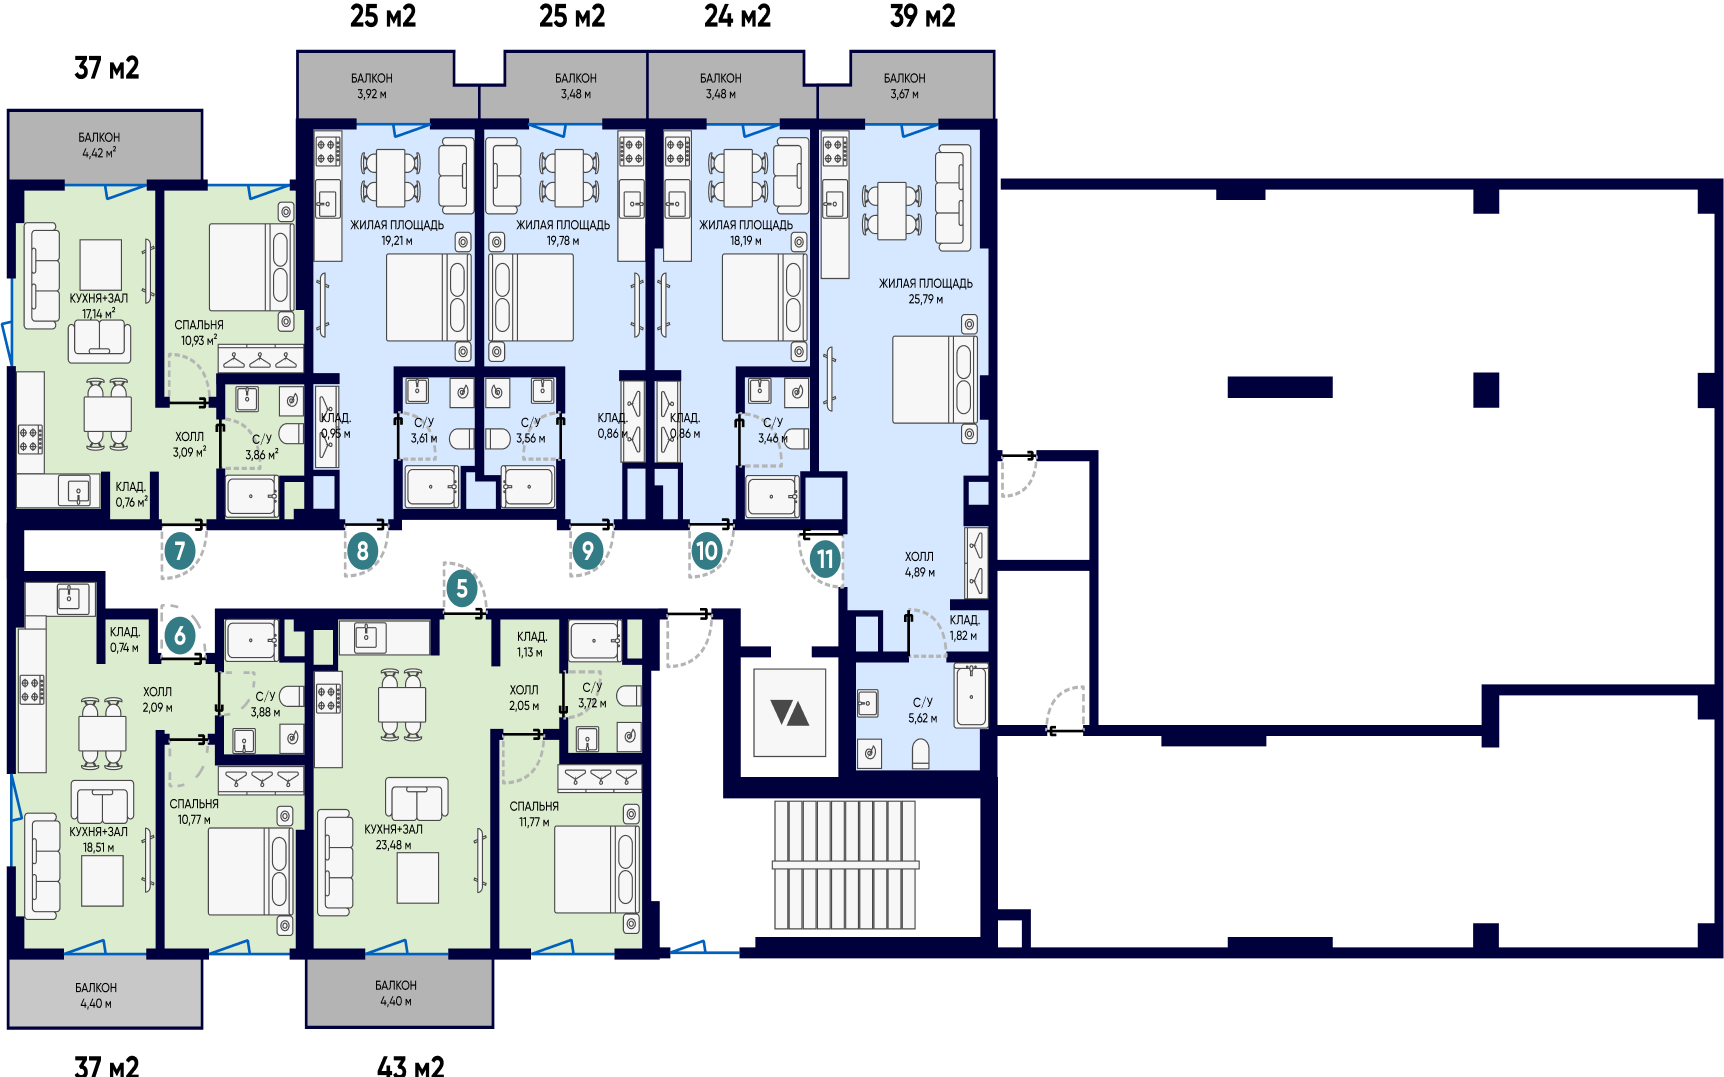
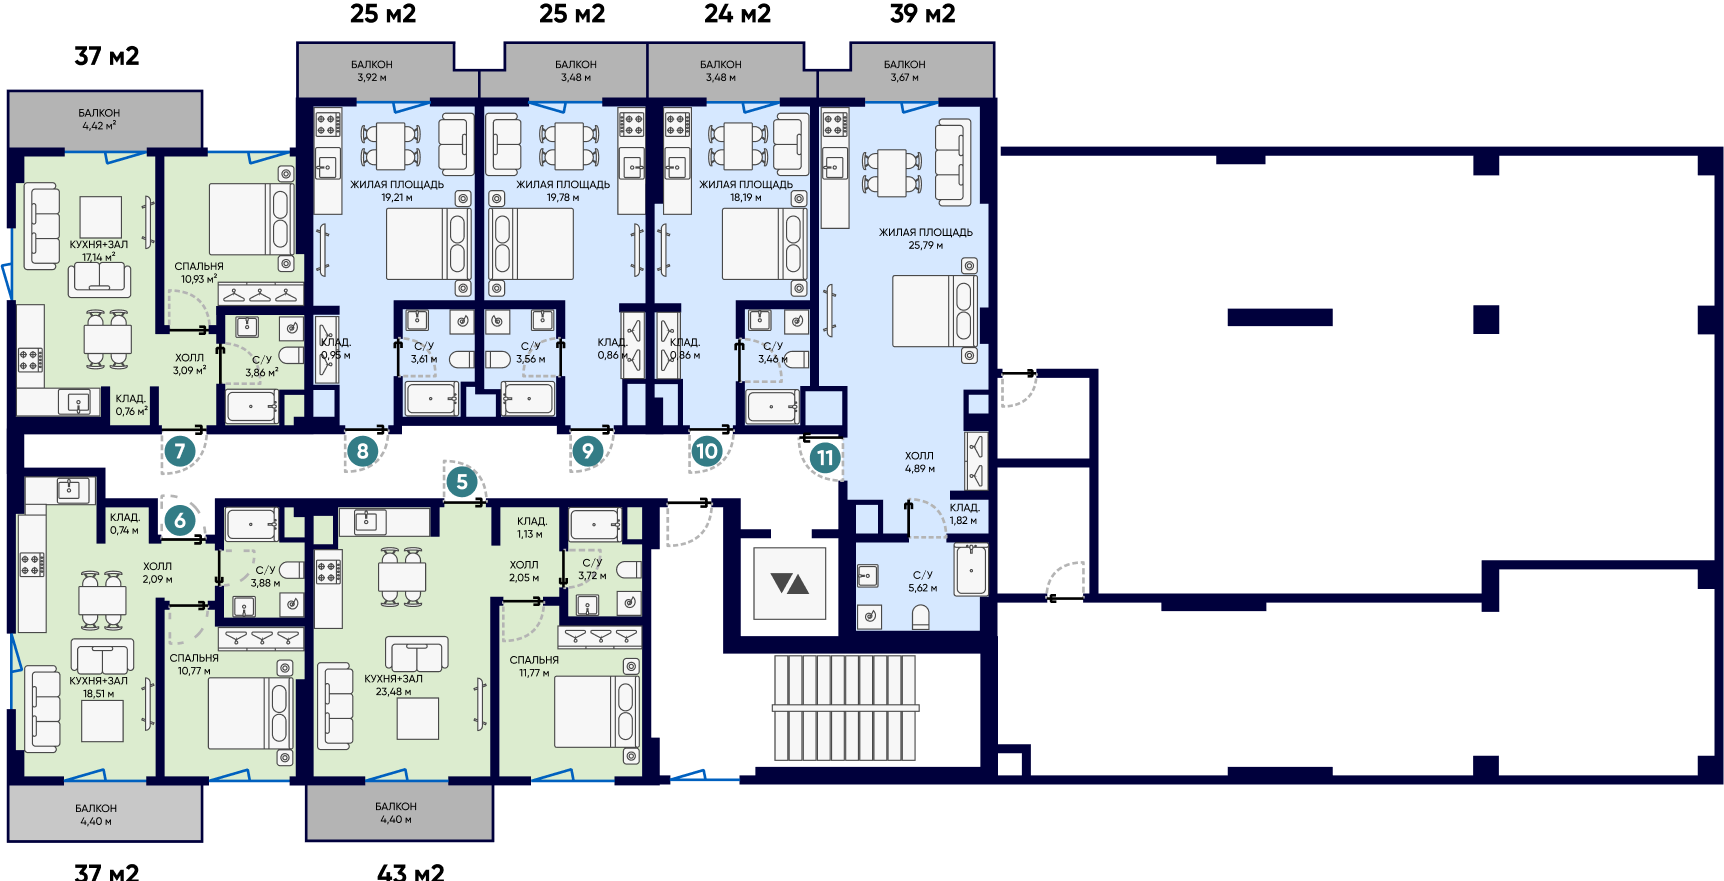
apartments sketches updated

diff --git a/assets/data/apartments.js b/assets/data/apartments.js
@@ -2055,61 +2055,61 @@ const apartmentsPaths1 = [
 ];
 const apartmentsPaths2 = [
 	{
-		path: 'M 815.281 117.189 L 815.281 81.427 L 848.875 81.427 L 848.875 47.942 L 994.815 47.942 L 994.815 121.89 L 994.815 774.394 L 842.447 774.394 L 840.78 584.192 L 840.78 521.05 L 800.276 521.05 L 800.276 468.229 L 820.12 468.229 L 820.12 122.908 L 815.281 117.189 Z',
+		path: 'M 815.281 201.927 L 815.281 173.183 L 848.875 173.183 L 848.875 146.271 L 994.815 146.271 L 994.815 205.706 L 994.815 730.146 L 842.447 730.146 L 840.78 577.274 L 840.78 526.524 L 800.276 526.524 L 800.276 484.071 L 820.12 484.071 L 820.12 206.524 L 815.281 201.927 Z',
 		apartmentId: '11'
 	},
 	{
-		path: 'M 641.692 523.89 L 641.692 118.982 L 635.338 112.652 L 635.338 48.556 L 800.999 48.556 L 800.999 78.773 L 828.151 78.773 L 813.24 117.944 L 813.24 477.646 L 802.652 476.708 L 802.652 519.537 L 741.741 519.537 L 741.741 523.89 L 646.775 523.89 L 641.692 523.89 Z',
+		path: 'M 653.426 532.074 L 653.426 199.678 L 647.472 194.482 L 647.472 141.865 L 802.707 141.865 L 802.707 166.671 L 828.151 166.671 L 814.178 198.826 L 814.178 494.113 L 804.257 493.342 L 804.257 528.501 L 747.178 528.501 L 747.178 532.074 L 658.189 532.074 L 653.426 532.074 Z',
 		apartmentId: '10'
 	},
 	{
-		path: 'M 657.303 522.87 L 657.303 126.599 L 654.93 121.419 L 654.93 53.848 L 503.063 53.848 L 503.063 88.263 L 481.197 88.263 L 481.197 125.678 L 475.9 477.713 L 466.366 477.713 L 466.366 515.417 L 562.343 515.417 L 562.343 523.889 L 657.303 523.889 L 657.303 522.87 Z',
+		path: 'M 657.303 524.52 L 657.303 199.583 L 654.93 195.337 L 654.93 139.929 L 503.063 139.929 L 503.063 168.149 L 481.197 168.149 L 481.197 198.829 L 475.9 487.492 L 466.366 487.492 L 466.366 518.408 L 562.343 518.408 L 562.343 525.355 L 657.303 525.355 L 657.303 524.52 Z',
 		apartmentId: '9'
 	},
 	{
-		path: 'M 303.922 527.173 L 303.922 128.605 L 292.48 123.395 L 292.48 55.433 L 458.205 55.433 L 458.205 90.048 L 485.367 90.048 L 485.367 127.679 L 485.367 481.752 L 470.451 481.752 L 470.451 519.675 L 398.924 519.675 L 398.924 528.195 L 303.922 528.195 L 303.922 527.173 Z',
+		path: 'M 303.725 524.768 L 303.725 199.34 L 292.48 195.085 L 292.48 139.594 L 455.35 139.594 L 455.35 167.858 L 482.044 167.858 L 482.044 198.582 L 482.044 487.682 L 467.385 487.682 L 467.385 518.646 L 397.09 518.646 L 397.09 525.602 L 303.725 525.602 L 303.725 524.768 Z',
 		apartmentId: '8'
 	},
 	{
-		path: 'M -6.11 109.99 L -6.11 111.06 L -6.11 275.666 L -1.833 275.666 L -1.833 391.005 L -1.833 523.156 L 153.344 523.156 L 225.576 523.156 L 311.527 523.156 L 311.527 184.811 L 199.242 184.811 L 199.242 109.99 L -6.11 109.99 Z',
+		path: 'M 7.442 187.014 L 7.442 187.884 L 7.442 321.804 L 11.537 321.804 L 11.537 415.641 L 11.537 523.156 L 160.093 523.156 L 229.243 523.156 L 311.527 523.156 L 311.527 247.887 L 204.033 247.887 L 204.033 187.014 L 7.442 187.014 Z',
 		apartmentId: '7'
 	},
 	{
-		path: 'M 10.515 576.689 L 8.264 953.556 L 4.093 959.069 L 3.683 1027.53 L 200.434 1027.53 L 200.876 953.556 L 303.717 953.556 L 311.081 834.836 L 312.404 613.211 L 222.713 613.211 L 222.444 658.452 L 153.167 658.452 L 153.432 614.089 C 153.435 613.503 100.022 614.089 100.022 614.089 L 100.246 576.689 L 10.515 576.689 Z',
+		path: 'M 10.515 563.578 L 8.264 878.8 L 4.093 883.411 L 3.683 940.673 L 200.434 940.673 L 200.876 878.8 L 303.717 878.8 L 311.081 779.499 L 312.404 594.127 L 222.713 594.127 L 222.444 631.967 L 153.167 631.967 L 153.432 594.861 C 153.435 594.371 100.022 594.861 100.022 594.861 L 100.246 563.578 L 10.515 563.578 Z',
 		apartmentId: '6'
 	},
 	{
-		path: 'M 308.283 613.502 L 308.283 951.133 L 306.124 951.133 L 306.124 1024.3 L 490.901 1024.3 L 490.901 951.036 L 646.703 951.036 L 643.221 900.704 L 643.221 612.629 L 341.148 612.629 L 308.283 613.502 Z',
+		path: 'M 308.283 594.37 L 308.283 876.773 L 306.124 876.773 L 306.124 937.971 L 490.901 937.971 L 490.901 876.692 L 646.703 876.692 L 643.221 834.593 L 643.221 593.64 L 341.148 593.64 L 308.283 594.37 Z',
 		apartmentId: '5'
 	}
 ];
 const apartmentsPaths3 = [
 	{
-		path: 'M 816.179 118.412 L 816.179 82.446 L 849.372 82.446 L 849.372 48.771 L 993.587 48.771 L 993.587 123.091 L 993.587 779.326 L 843.023 779.326 L 841.375 588.064 L 841.375 524.515 L 801.313 524.515 L 801.313 471.395 L 820.962 471.395 L 820.962 124.163 L 816.179 118.412 Z',
+		path: 'M 815.281 201.927 L 815.281 173.183 L 848.875 173.183 L 848.875 146.271 L 994.815 146.271 L 994.815 205.706 L 994.815 730.146 L 842.447 730.146 L 840.78 577.274 L 840.78 526.524 L 800.276 526.524 L 800.276 484.071 L 820.12 484.071 L 820.12 206.524 L 815.281 201.927 Z',
 		apartmentId: '18'
 	},
 	{
-		path: 'M 652.19 524.077 L 652.19 125.089 L 646.162 118.851 L 646.162 55.691 L 803.32 55.691 L 803.32 85.517 L 829.038 85.517 L 814.934 124.113 L 814.934 478.558 L 804.889 477.582 L 804.889 519.836 L 747.064 519.836 L 747.064 524.077 L 657.013 524.077 L 652.19 524.077 Z',
+		path: 'M 653.426 532.074 L 653.426 199.678 L 647.472 194.482 L 647.472 141.865 L 802.707 141.865 L 802.707 166.671 L 828.151 166.671 L 814.178 198.826 L 814.178 494.113 L 804.257 493.342 L 804.257 528.501 L 747.178 528.501 L 747.178 532.074 L 658.189 532.074 L 653.426 532.074 Z',
 		apartmentId: '17'
 	},
 	{
-		path: 'M 646.404 523.052 L 646.404 124.113 L 644.155 118.851 L 644.155 50.818 L 500.095 50.818 L 500.095 85.517 L 479.4 85.517 L 479.4 123.139 L 474.377 477.582 L 465.336 477.582 L 465.336 515.547 L 556.353 515.547 L 556.353 524.077 L 646.404 524.077 L 646.404 523.052 Z',
+		path: 'M 657.303 524.52 L 657.303 199.583 L 654.93 195.337 L 654.93 139.929 L 503.063 139.929 L 503.063 168.149 L 481.197 168.149 L 481.197 198.829 L 475.9 487.492 L 466.366 487.492 L 466.366 518.408 L 562.343 518.408 L 562.343 525.355 L 657.303 525.355 L 657.303 524.52 Z',
 		apartmentId: '16'
 	},
 	{
-		path: 'M 307.415 520.176 L 307.415 121.239 L 296.565 115.975 L 296.565 47.942 L 453.723 47.942 L 453.723 82.641 L 479.481 82.641 L 479.481 120.264 L 479.481 474.709 L 465.336 474.709 L 465.336 512.672 L 397.507 512.672 L 397.507 521.201 L 307.415 521.201 L 307.415 520.176 Z',
+		path: 'M 303.725 524.768 L 303.725 199.34 L 292.48 195.085 L 292.48 139.594 L 455.35 139.594 L 455.35 167.858 L 482.044 167.858 L 482.044 198.582 L 482.044 487.682 L 467.385 487.682 L 467.385 518.646 L 397.09 518.646 L 397.09 525.602 L 303.725 525.602 L 303.725 524.768 Z',
 		apartmentId: '15'
 	},
 	{
-		path: 'M -0.799 104.425 L -0.799 105.497 L -0.799 270.609 L 3.245 270.609 L 3.245 386.352 L 3.245 518.861 L 150.537 518.861 L 219.091 518.861 L 300.663 518.861 L 300.663 179.476 L 194.056 179.476 L 194.056 104.425 L -0.799 104.425 Z',
+		path: 'M 7.442 187.014 L 7.442 187.884 L 7.442 321.804 L 11.537 321.804 L 11.537 415.641 L 11.537 523.156 L 160.093 523.156 L 229.243 523.156 L 311.527 523.156 L 311.527 247.887 L 204.033 247.887 L 204.033 187.014 L 7.442 187.014 Z',
 		apartmentId: '14'
 	},
 	{
-		path: 'M 11.334 572.274 L 11.334 949.439 L 7.23 954.96 L 7.23 1023.45 L 202.054 1023.45 L 202.054 949.439 L 303.879 949.439 L 310.429 830.624 L 310.429 608.859 L 221.663 608.859 L 221.663 654.128 L 153.07 654.128 L 153.07 609.717 C 153.07 609.152 100.188 609.717 100.188 609.717 L 100.188 572.274 L 11.334 572.274 Z',
+		path: 'M 10.515 563.578 L 8.264 878.8 L 4.093 883.411 L 3.683 940.673 L 200.434 940.673 L 200.876 878.8 L 303.717 878.8 L 311.081 779.499 L 312.404 594.127 L 222.713 594.127 L 222.444 631.967 L 153.167 631.967 L 153.432 594.861 C 153.435 594.371 100.022 594.861 100.022 594.861 L 100.246 563.578 L 10.515 563.578 Z',
 		apartmentId: '13'
 	},
 	{
-		path: 'M 318.225 603.527 L 304.682 951.436 L 300.583 956.963 L 300.583 1025.45 L 495.394 1025.45 L 495.394 951.436 L 644.155 951.436 L 644.155 603.527 L 441.226 603.527 L 318.225 603.527 Z',
+		path: 'M 308.283 594.37 L 308.283 876.773 L 306.124 876.773 L 306.124 937.971 L 490.901 937.971 L 490.901 876.692 L 646.703 876.692 L 643.221 834.593 L 643.221 593.64 L 341.148 593.64 L 308.283 594.37 Z',
 		apartmentId: '12'
 	}
 ];

diff --git a/pages/blocks/[block_id].vue b/pages/blocks/[block_id].vue
@@ -9,7 +9,6 @@
 import img1 from '~/assets/images/floors.avif';
 import img2 from '~/assets/images/floors-2.avif';
 import img3 from '~/assets/images/floors-3.avif';
-import img from '~/assets/images/hotel-close.avif';
 
 const { t } = useI18n();
 
@@ -93,14 +92,14 @@ const firstFloorPaths = [
 	// 	blockId: 'E3',
 	// 	floorId: '3',
 	// 	path: 'M 223 577.339 L 546 586.076 L 546 615.996 L 462 620.996 L 462 665.496 L 59 626.996 L 59 601.996 L 223 597.297 L 223 577.339 Z'
-	// }
+	// },
 
 	// // E4
 	// {
 	// 	blockId: 'E4',
 	// 	floorId: '1',
 	// 	path: 'M 164 610.5 L 164 638 L 164 640 L 52.5 629 L 52.5 624.5 L 59.5 624.5 L 59.5 602 L 221.502 596 L 223.002 569.5 L 192.5 568 L 192.5 560.5 L 204 560.5 L 204 518.5 L 195.5 518.5 L 195.5 469.5 L 190.5 469.5 L 190.5 463.5 L 200 463.5 L 200 412.5 L 221.502 412.5 L 221.502 401 L 263.002 398 L 263.002 458.5 C 256.335 458.667 242.602 459.1 241.002 459.5 C 239.402 459.9 240.335 537.333 241.002 576 L 261.502 576 L 261.502 606 L 164 610.5 Z'
-	// },
+	// }
 
 	// Commercial
 	// {
@@ -130,7 +129,7 @@ const secondFloorPaths = [
 		floorId: '1'
 	}
 
-	// E2
+	// // E2
 	// { path: 'M976.5 512.5V434.5L478.5 422.5V512.5H976.5Z', blockId: 'E2', floorId: '7' },
 	// { path: 'M976.5 569V515.5L478.5 513V569H976.5Z', blockId: 'E2', floorId: '6' },
 	// { path: 'M976.5 624V570.5H478.5V626.5L976.5 624Z', blockId: 'E2', floorId: '5' },

diff --git a/pages/phases/[phase_id].vue b/pages/phases/[phase_id].vue
@@ -52,7 +52,7 @@ const paths = computed(() => [
 	// {
 	// 	blockId: 'C1/2/3',
 	// 	path: 'M 767.337 749.25 L 770.67 775.575 L 287.999 996.3 L 274.666 961.2 L 253.333 968.625 L 164 726.975 L 175.333 722.925 L 157.333 675 L 169.333 670.275 L 168 666.225 L 299.333 625.725 L 331.333 693.9 L 413.338 664.875 L 411.338 661.5 L 440.671 650.7 L 438.671 641.25 L 466.671 631.8 L 475.337 645.3 L 503.337 636.525 L 501.337 633.825 L 538.671 621 L 525.337 556.875 L 535.337 553.5 L 535.337 547.425 L 630.004 517.05 L 634.004 521.775 L 638.67 519.75 L 660.67 541.35 L 660.67 548.775 L 668.67 556.2 L 680.67 552.15 L 712.004 583.2 L 713.337 600.75 L 718.67 606.825 L 719.337 614.25 L 736.67 635.175 L 738.67 657.45 L 733.337 659.475 L 733.337 667.575 L 739.337 674.325 L 738.67 683.775 L 788.67 739.8 L 767.337 749.25 Z'
-	// },
+	// }
 
 	// Commercials
 	{

diff --git a/pages/floors/[floor_id].vue b/pages/floors/[floor_id].vue
@@ -123,6 +123,11 @@ useHead({
 	padding-inline: $layout-spacing;
 	justify-content: center;
 	padding-block: 40px;
+	&__image {
+		aspect-ratio: 1.6;
+		align-self: center;
+		object-fit: contain;
+	}
 	&__center {
 		display: flex;
 		flex-direction: column;
